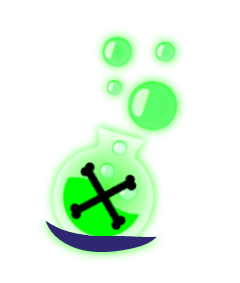
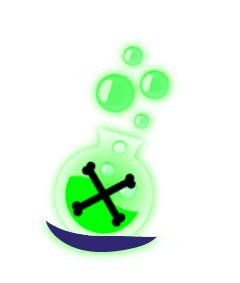
improved sleep animation and more animations

diff --git a/classes/character.class.js b/classes/character.class.js
@@ -116,7 +116,7 @@ class Character extends Movable {
     swim(right) {
         this.clearState();
         this.otherDirection = !right;
-        this.animate('swim');
+        this.animate('swim', 1000 / 8);
         this.moveX(this.speed);
         this.playSound('swimming');
         if (right) {
@@ -140,7 +140,7 @@ class Character extends Movable {
         }
         if (!this.state.includes('swim')) {
             this.clearState();
-            this.animate('swim');
+            this.animate('swim', 1000 / 8);
             this.state = 'swim';
         }
     }
@@ -189,7 +189,7 @@ class Character extends Movable {
      */
     idle() {
         this.clearState();
-        this.animate('idle');
+        this.animate('idle', 1000 / 8);
         this.idleSince = Date.now();
         this.state = 'idle';
     }
@@ -200,7 +200,8 @@ class Character extends Movable {
      */
     rest() {
         this.clearState();
-        this.animate('rest');
+        this.playAnimationOnce('fall asleep', 1000 / 6);
+        this.animate('sleep', 1000 / 2);
         this.state = 'rest';
         this.sounds['snoring'].loop = true;
         this.playSound('snoring');
@@ -218,9 +219,9 @@ class Character extends Movable {
             if (isToxic) {
                 this.poison -= 20;
                 world.stats[2].update(this.poison);
-                this.playAnimationOnce('bubble toxic');
+                this.playAnimationOnce('bubble toxic', 1000 / 12);
             } else {
-                this.playAnimationOnce('bubble normal');
+                this.playAnimationOnce('bubble normal', 1000 / 12);
             }
             this.newBubbleAfterTimeout(true, isToxic);
         }
@@ -232,7 +233,7 @@ class Character extends Movable {
      * bei giftiger Bubble-Attacke scheitern (da Poison leer)
      */
     failBubbleAttack() {
-        this.playAnimationOnce('no toxic');
+        this.playAnimationOnce('no toxic', 1000 / 12);
         this.newBubbleAfterTimeout(false, true);
     }
 
@@ -272,7 +273,7 @@ class Character extends Movable {
     slap() {
         if (!this.slapping) {
             this.slapping = true;
-            this.playAnimationOnce('slap');
+            this.playAnimationOnce('slap', 1000 / 12);
             setTimeout(() => {
                 if (this.slapping) {
                     this.playSound('slap');
@@ -319,11 +320,11 @@ class Character extends Movable {
     reactToHit(obj) {
         if (!this.isDead()) {
             if (obj instanceof Jellyfish && obj.color == 'green') {
-                this.playAnimationOnceWithSound('sound');
+                this.playAnimationOnceWithSound('shocked', 1000 / 12);
             } else {
-                this.playAnimationOnceWithSound('hurt');
+                this.playAnimationOnceWithSound('hurt', 1000 / 12);
             }
-            this.animate('idle');
+            this.animate('idle', 1000 / 8);
             this.recover();
         }
     }
@@ -348,10 +349,10 @@ class Character extends Movable {
         super.die();
         if (obj instanceof Jellyfish && obj.color == 'green') {
             this.playSound('shocked');
-            this.playAnimationOnce('die shocked');
+            this.playAnimationOnce('die shocked', 1000 / 12);
             this.playSoundAfterDelay(500, 'die shocked');
         } else {
-            this.playAnimationOnce('die normal');
+            this.playAnimationOnce('die normal', 1000 / 12);
             this.playSoundAfterDelay(200, 'die');
         }
         setTimeout(() => world.lose(), 1000);

diff --git a/classes/visible.class.js b/classes/visible.class.js
@@ -94,8 +94,9 @@ class Visible {
     /**
      * zyklische Animation abspielen
      * @param {String} name - Name der Animation 
+     * @param {Number} ms - frame interval in milliseconds
      */
-    animate(name) {
+    animate(name, ms) {
         const numberOfSprites = this.imageCache[name].length;
         this.activeAnimation = name;
         this.animateIntervalId = setInterval(() => {
@@ -103,29 +104,33 @@ class Visible {
                 this.currentImg %= numberOfSprites;
                 this.img = this.imageCache[name][this.currentImg];
                 this.currentImg++;
+            } else {
+                this.currentImg = 0;
             }
-        }, 1000 / 8);
+        }, ms);
     }
 
 
     /**
      * einzelne Animation abspielen
-     * @param {String} name - Name der Animation 
+     * @param {String} name - Name der Animation
+     * @param {Number} ms - frame interval in milliseconds 
      */
-    playAnimationOnce(name) {
+    playAnimationOnce(name, ms) {
         this.loopAnimation = false;
         if (this.singleAnimationId != -1) {
             clearInterval(this.singleAnimationId);
         }
-        this.setSingleInterval(name);
+        this.setSingleInterval(name, ms);
     }
 
 
     /**
      * Intervall für einmalige Animation setzen
-     * @param {String} name - Name der Animation 
+     * @param {String} name - Name der Animation
+     * @param {Number} ms - frame interval in milliseconds 
      */
-    setSingleInterval(name) {
+    setSingleInterval(name, ms) {
         const numberOfSprites = this.imageCache[name].length;
         let i = 0;
         this.singleAnimationId = setInterval(() => {
@@ -134,7 +139,7 @@ class Visible {
             if (i == numberOfSprites) {
                 this.stopSingleAnimation();
             }
-        }, 1000 / 12);
+        }, ms);
     }
 
 

diff --git a/classes/boss.class.js b/classes/boss.class.js
@@ -53,7 +53,7 @@ class Boss extends Movable {
         this.setSpawningPosition();
         this.startBossMusic();
         this.x = this.xStart;
-        this.playAnimationOnceWithSound('introduce');
+        this.playAnimationOnceWithSound('introduce', 1000 / 12);
         const moveSpawning = setInterval(() => {
             this.x -= 0.8;
             if (this.x <= this.xStart - 14) {
@@ -61,7 +61,7 @@ class Boss extends Movable {
                 clearInterval(moveSpawning);
             }
         }, 1000 / 60)
-        this.animate('floating');
+        this.animate('floating', 1000 / 8);
     }
 
 
@@ -174,7 +174,7 @@ class Boss extends Movable {
      * Attacke ausführen
      */
     attack() {
-        this.playAnimationOnceWithSound('attack');
+        this.playAnimationOnceWithSound('attack', 1000 / 12);
         let i = 0;
         this.attackId = setInterval(() => {
             this.attackMove(i);
@@ -244,7 +244,7 @@ class Boss extends Movable {
         if (!this.isDead()) {
             this.state = 'hit';
             this.clearBossIntervals();
-            this.playAnimationOnceWithSound('hurt');
+            this.playAnimationOnceWithSound('hurt', 1000 / 12);
             this.retreat();
         }
     }
@@ -315,7 +315,7 @@ class Boss extends Movable {
         if (this.state != 'dead') {
             this.state = 'dead';
             this.clearAllIntervals();
-            this.playAnimationOnceWithSound('die');
+            this.playAnimationOnceWithSound('die', 1000 / 12);
             this.endBossMusic();
             setTimeout(() => {
                 world.win();

diff --git a/classes/pufferfish.class.js b/classes/pufferfish.class.js
@@ -15,7 +15,7 @@ class Pufferfish extends Movable { // weitere Klasse "Enemy" erstellen, um auch 
         this.setDamage(5, 10);
         this.health = 1;
         this.initFrame(3, 6, 48, 32);
-        this.animate('normal');
+        this.animate('normal', 1000 / 8);
         this.moveX(this.speed);
     }
 
@@ -26,12 +26,12 @@ class Pufferfish extends Movable { // weitere Klasse "Enemy" erstellen, um auch 
     attack() {
         this.state = 'attacking';
         clearInterval(this.animateIntervalId);
-        this.playAnimationOnce('transition');
+        this.playAnimationOnce('transition', 1000 / 12);
         setTimeout(() => {
             if (!this.isDead()) {
                 clearInterval(this.moveIntervalId);
                 this.moveX(2.4 * this.speed * (1 + Math.random()));
-                this.animate('blown');
+                this.animate('blown', 1000 / 8);
                 this.frames[0][1] -= 4;
                 this.frames[0][3] = 52;
             }
@@ -46,7 +46,7 @@ class Pufferfish extends Movable { // weitere Klasse "Enemy" erstellen, um auch 
         super.die();
         this.clearIntervals();
         this.playSound('die');
-        this.playAnimationOnce('die');
+        this.playAnimationOnce('die', 1000 / 12);
         this.driftUp();
     }
 

diff --git a/js/path.js b/js/path.js
@@ -19,7 +19,8 @@ function initAnimationPaths() {
 
         'Character': [
             ['idle', './img/sharkie/idle/', 18],
-            ['rest', './img/sharkie/sleep/', 14],
+            ['fall asleep', './img/sharkie/sleep/fall_asleep/', 10],
+            ['sleep', './img/sharkie/sleep/', 4],
             ['swim', './img/sharkie/swim/', 6],
             ['bubble normal', './img/sharkie/attack/normal_bubble/', 8],
             ['bubble toxic', './img/sharkie/attack/toxic_bubble/', 8],
@@ -37,7 +38,7 @@ function initAnimationPaths() {
         ],
 
         'Phial': [
-            ['bubbling', './img/marks/poison/', 8]
+            ['bubbling', './img/marks/poison/', 4]
         ],
 
         'Pufferfish': [

diff --git a/classes/movable.class.js b/classes/movable.class.js
@@ -36,10 +36,11 @@ class Movable extends Visible {
 
     /**
      * Animation und Sound einmalig abspielen
-     * @param {String} name - Name von Animation und Sound (muss identisch sein) 
+     * @param {String} name - Name von Animation und Sound (muss identisch sein)
+     * @param {Number} ms - frame interval in milliseconds  
      */
-    playAnimationOnceWithSound(name) {
-        this.playAnimationOnce(name);
+    playAnimationOnceWithSound(name, ms) {
+        this.playAnimationOnce(name, ms);
         this.playSound(name);
     }
 

diff --git a/classes/jellyfish.class.js b/classes/jellyfish.class.js
@@ -17,7 +17,7 @@ class Jellyfish extends Movable {
         this.y = y;
         this.health = 1;
         this.initFrame(8, 6, 48, 48);
-        this.animate(`normal ${color}`);
+        this.animate(`normal ${color}`, 1000 / 8);
         this.moveX(-0.18);
     }
 

diff --git a/classes/bubble.class.js b/classes/bubble.class.js
@@ -78,7 +78,7 @@ class Bubble extends Movable {
      */
     catchJellyfish(color) {
         this.playSound('blow');
-        this.animate(`${color} jellyfish`);
+        this.animate(`${color} jellyfish`, 1000 / 8);
         this.isEmpty = false;
     }
 }

diff --git a/classes/coin.class.js b/classes/coin.class.js
@@ -9,7 +9,7 @@ class Coin extends Item {
         this.width = 32;
         this.height = 32;
         this.initFrame(0, 0, this.width, this.height);
-        this.animate('normal');
+        this.animate('normal', 1000 / 6);
     }
 
     /**

diff --git a/classes/phial.class.js b/classes/phial.class.js
@@ -12,7 +12,7 @@ class Phial extends Item {
         if (Math.random() > 0.5) {
             this.otherDirection = true;
         }
-        this.animate('bubbling');
+        this.animate('bubbling', 1000 / 4);
     }
 
     

diff --git a/script.js b/script.js
@@ -1,4 +1,4 @@
-const TOTAL_NR_OF_IMAGES = 211;
+const TOTAL_NR_OF_IMAGES = 207;
 let loadingCounter = 0;
 let animations = {};
 let sounds = {}
